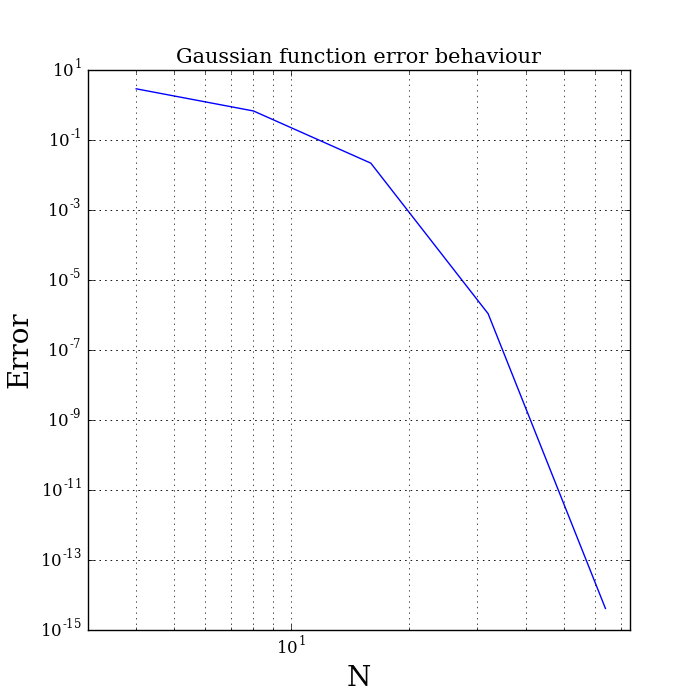
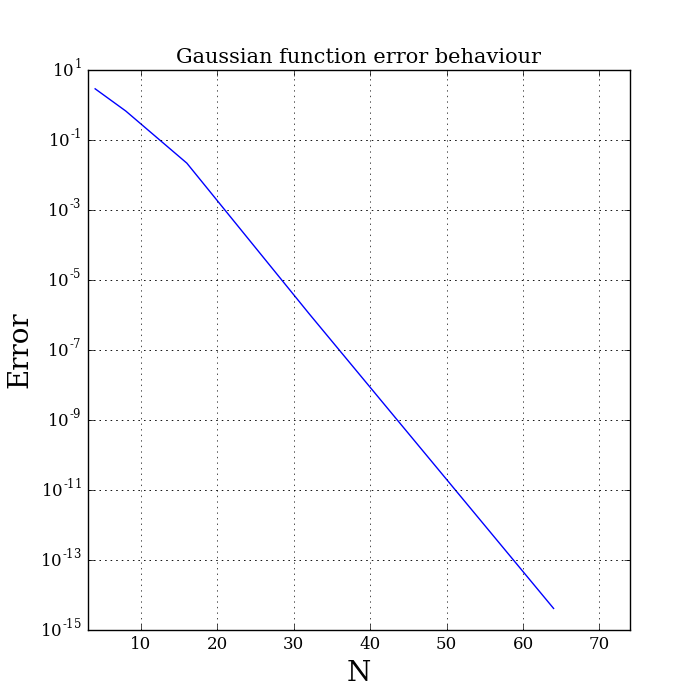
Error scale fixed for Gaussian

diff --git a/playground/playground.py b/playground/playground.py
@@ -160,13 +160,16 @@ def Plot(x, func, N_order, title, regress):
     plt.xlabel('N')
     plt.ylabel('Error')
     plt.grid(True, which='both')
-    plt.loglog(N_order, error)
 
     if regress == True:
+        plt.loglog(N_order, error)
         log_error = np.log(error) 
         log_N = np.log(N_order)
         m = linregress(log_N, log_error)[0]
         plt.figtext( 0.6, 0.7 ,'slope = %.2f' %m)
+
+    else:
+        plt.semilogy(N_order, error)
 
     plt.savefig('%s_error' %title)
     plt.close()
